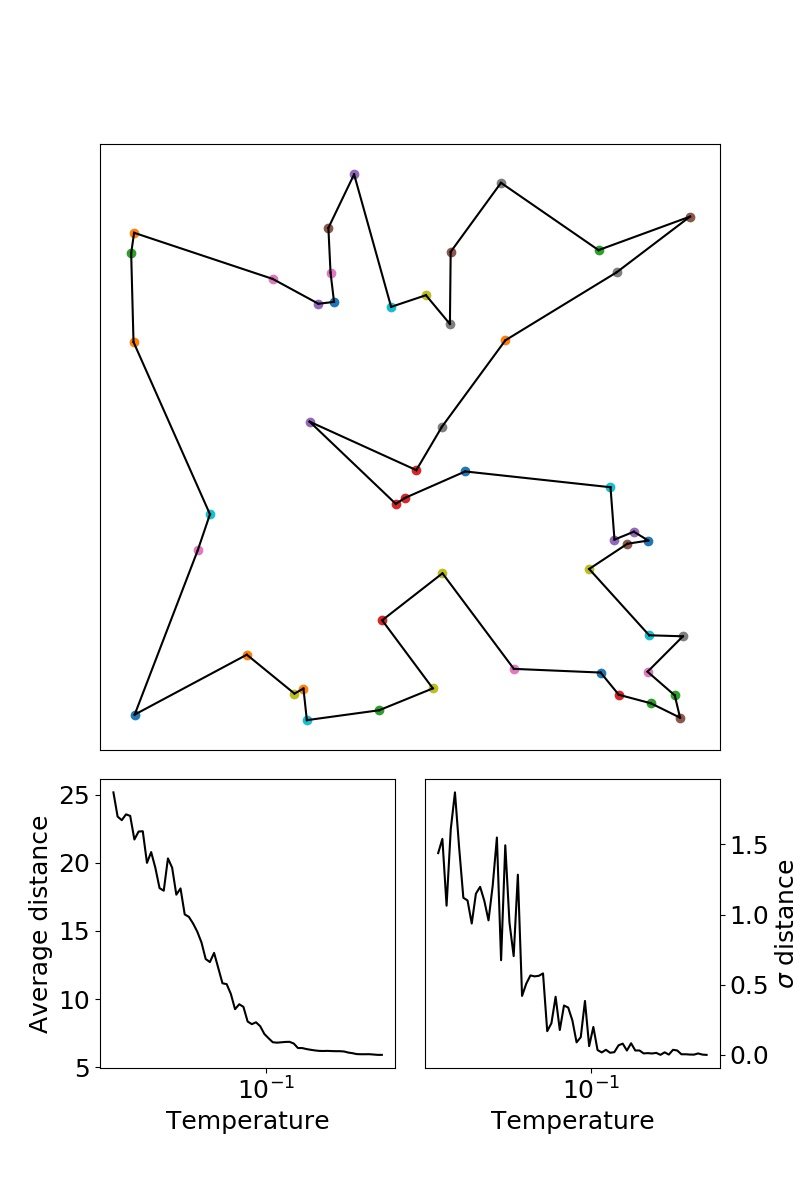
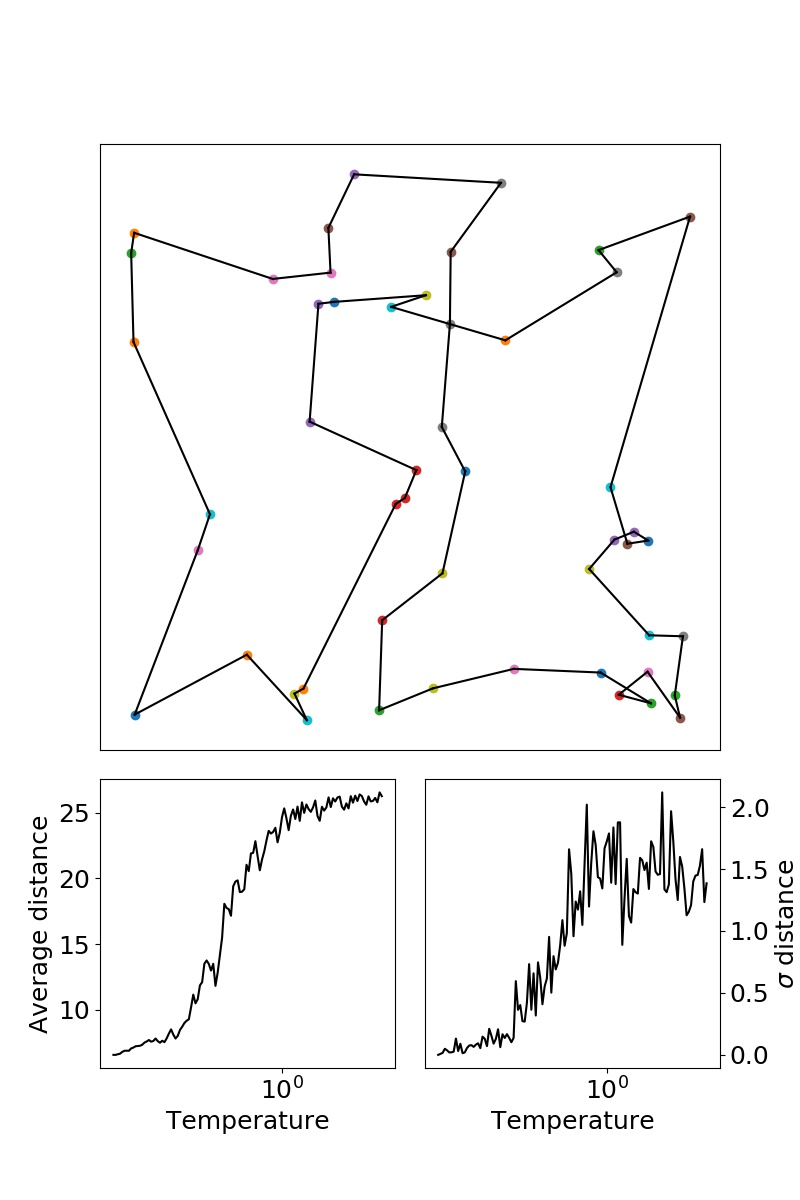
Merge branch 'master' of /home/ludova/monte_carlo_techniques with conflicts.

diff --git a/optimiser.py b/optimiser.py
@@ -40,7 +40,7 @@ def sa_solution(world: World,
     if n_mc_samples < 0:
         n_mc_samples = int(choose(world.n_cities, 2) / 2)
     temperature = init_temperature
-
+    
     # Generate shuffled swap and reverse lists
     #
     swap_list = generate_swaplist(world.n_cities, neighbourhood)
@@ -52,41 +52,46 @@ def sa_solution(world: World,
     #
     max_n_mc_samples = len(swap_list) + len(reverse_list)
 
-    # Print the config for verbosity
+    # Aesthetics
     #
-    print_config(n_mc_samples, init_temperature, cooling_factor, neighbourhood)
-
+    print("==============")
+    print("Starting simulated annealing with variables:")
+    print(r"n_samples: {}, T_i: {}, f_c: {}, neighb.: {}".
+          format(n_mc_samples,
+                 init_temperature,
+                 cooling_factor,
+                 neighbourhood))
+    print("==============")
+    print("Temperature | # MC samples | Average epoch distance")
+            
     new_sample_found = True
     epochs = 0
-    border = 0.5  # probability of choosing the swap_cities() method
-
+    swap_probability = init_swap_probability
     while new_sample_found:
         new_sample_found = False
-
+        
         # Go to the start of the lists since a new sample has just been found
         #
         swap_list_counter = 0
         reverse_list_counter = 0
-
+        
         epoch_distances = np.zeros(n_mc_samples)
         for sample_number in range(n_mc_samples):
             current_distance = world.tour.distance  # save distance to compare with new trial state
-
+            
             candidate_world = copy.deepcopy(world)
 
             # Choose between two methods for finding a new trial state
             #
-            if np.random.rand() < border:
-                # swap cities
+            if np.random.rand() < swap_probability:
                 swap = swap_list[swap_list_counter]
                 candidate_world.tour.swap_cities(swap)
                 swap_list_counter += 1
             else:
-                # reverse direction
-                [from_city, to_city] = reverse_list[reverse_list_counter]
+                [from_city,to_city] = reverse_list[reverse_list_counter]
                 candidate_world.tour.reverse_direction(from_city, to_city)
                 reverse_list_counter += 1
-
+                
             new_distance = candidate_world.tour.distance
 
             # Check whether to acccept the new state
@@ -94,7 +99,7 @@ def sa_solution(world: World,
             if accept(current_distance, new_distance, temperature):
                 new_sample_found = True
                 world = copy.deepcopy(candidate_world)
-
+                
                 # Shuffle the lists and start all over again since previously
                 # skipped trials may now result in a lower energy.
                 #
@@ -102,7 +107,7 @@ def sa_solution(world: World,
                 np.random.shuffle(reverse_list)
                 swap_list_counter = 0
                 reverse_list_counter = 0
-
+                
                 # Reset border
                 #
                 border = 0.5
@@ -112,18 +117,18 @@ def sa_solution(world: World,
                 #
                 if swap_list_counter == len(swap_list) and reverse_list_counter == len(reverse_list):
                     print("Tried all possible swaps and reverses.")
-                    border = 0.5  # this does not matter since the loop will be stopped
-
+                    swap_probability = init_swap_probability  # this does not matter since the loop will be stopped
+                    
                 elif swap_list_counter == len(swap_list):
-                    if border != -1:
-                        print("Tried all possible swap combinations.")
-                        border = -1
-
+                    if swap_probability != -1:
+                        print("\nTried all possible swap combinations.")
+                        swap_probability = -1
+                            
                 elif reverse_list_counter == len(reverse_list):
-                    if border != 2:
-                        print("Tried all possible reverse directions.")
-                        border = 2
-
+                    if swap_probability != 2:
+                        print("\nTried all possible reverse directions.")
+                        swap_probability = 2
+                
             epoch_distances[sample_number] = world.tour.distance
 
         temperature_list.append(temperature)
@@ -164,21 +169,6 @@ def sa_solution(world: World,
         world.show_withplots(temperature_list, avg_distance_list, stdev_distance_list, title=title)
 
     return world
-
-
-def print_config(n_mc_samples, init_temperature, cooling_factor, neighbourhood):
-    """
-    Prints the parameter config for simulated annealing for verbosity.
-    """
-    print("==============")
-    print("Starting simulated annealing with variables:")
-    print("n_samples: {}, T_i: {}, f_c: {}, neighb.: {}".
-          format(n_mc_samples,
-                 init_temperature,
-                 cooling_factor,
-                 neighbourhood))
-    print("==============")
-    print("Temperature | # MC samples | Average epoch distance")
 
 
 def choose(n, k):

diff --git a/world.py b/world.py
@@ -1,10 +1,13 @@
 import numpy as np
 import matplotlib.pyplot as plt
 import matplotlib
+import pickle
 
 from city import City
 from tour import Tour
 from rcarry.generator import rcarry
+
+minimal_distance = pickle.load(open("data/minimal_distance.p", "rb"))
 
 
 class World:
@@ -19,22 +22,29 @@ class World:
 
     def show(self, title=None):
         plt.clf()
+        fig, ax = plt.subplots(constrained_layout=False, figsize=(3, 3))
+
         for city in self.cities:
-            plt.scatter(city.x, city.y, label="City {}".format(city.label))
+            ax.scatter(city.x, city.y, label="City {}".format(city.label), color='black')
 
         for i in range(self.n_cities):
             from_city = self.tour.tour[i]
             if i + 1 == self.n_cities:
                 to_city = self.tour.tour[0]
             else:
-                to_city = self.tour.tour[i+1]
-            plt.plot([from_city.x, to_city.x], [from_city.y, to_city.y])
+                to_city = self.tour.tour[i + 1]
+            ax.plot([from_city.x, to_city.x], [from_city.y, to_city.y], color='black')
 
-        #plt.legend()
+        ax.set_xticks([0, 1])
+        ax.set_yticks([0, 1])
+        ax.set_xlim(0, 1)
+        ax.set_ylim(0, 1)
+
+        # plt.legend()
         if title:
-            plt.savefig('data/figures/{0:s}.jpg'.format(title))
-        plt.show()
-    
+            fig.savefig('data/figures/{0:s}'.format(title))
+        fig.show()
+
     def show_withplots(self, temperature_list, avg_distance_list, stdev_distance_list, title=None):
         matplotlib.rcParams.update({'font.size': 18})
 
@@ -53,26 +63,33 @@ class World:
             if i + 1 == self.n_cities:
                 to_city = self.tour.tour[0]
             else:
-                to_city = self.tour.tour[i+1]
+                to_city = self.tour.tour[i + 1]
             world_ax.plot([from_city.x, to_city.x], [from_city.y, to_city.y], color='black')
+        world_ax.set_title("{0:5.3f} $D_{min}$".format(self.tour.distance / minimal_distance))
         world_ax.set_xticklabels([])
         world_ax.set_yticklabels([])
         world_ax.xaxis.set_visible(False)
         world_ax.yaxis.set_visible(False)
 
-
         temperature_list.reverse()
 
         avgdist_ax.plot(temperature_list, avg_distance_list, color='black')
+        avgdist_ax.plot(temperature_list, [minimal_distance] * len(temperature_list), linestyle='dashed', color='black')
         # avgdist_ax.set_title('$AVG_{dist}$ vs temperature')
         avgdist_ax.set_xscale('log')
+        avgdist_ax.set_xticks([1e1, 1e0, 1e-1])
+        # avgdist_ax.set_xlim(10,1e-2)
+        # avgdist_ax.set_ylim(5,30)
         avgdist_ax.set_xlabel('Temperature')
         avgdist_ax.set_ylabel('Average distance')
 
-
         stdevdist_ax.plot(temperature_list, stdev_distance_list, color='black')
+        stdevdist_ax.plot(temperature_list, [0.0] * len(temperature_list), linestyle='dashed', color='black')
         # stdevdist_ax.set_title('$\sigma_{dist}$ vs temperature')
         stdevdist_ax.set_xscale('log')
+        stdevdist_ax.set_xticks([1e1, 1e0, 1e-1])
+        # stdevdist_ax.set_xlim(10,1e-2)
+        # stdevdist_ax.set_ylim(0,5)
         stdevdist_ax.set_xlabel('Temperature')
         stdevdist_ax.set_ylabel('$\sigma$ distance')
         stdevdist_ax.yaxis.set_label_position("right")

diff --git a/run.py b/run.py
@@ -2,11 +2,16 @@ from world import World
 import optimiser
 
 my_world = World(50)
-optimised_world = optimiser.sa_solution(world = my_world,  
-                                        n_mc_samples = 300,
-                                        neighbourhood = 2,
-                                        init_temperature = 1.0,
-                                        cooling_factor = 0.92,
-                                        rising_mc = False,
-                                        show_steps = False,
-                                        title = 'plotje.jpg')
+optimised_world, final_distance, [temperature_list, avg_distance_list, stdev_distance_list] = \
+    optimiser.sa_solution(world=my_world,
+                          n_mc_samples=300,
+                          neighbourhood=2,
+                          init_temperature=0.1,
+                          cooling_factor=0.95,
+                          init_swap_probability=1.0,
+                          rising_mc=False,
+                          show_steps=False,
+                          title='swap_solution.png')
+
+# %%
+# optimised_world.show_withplots(temperature_list, avg_distance_list, stdev_distance_list)
